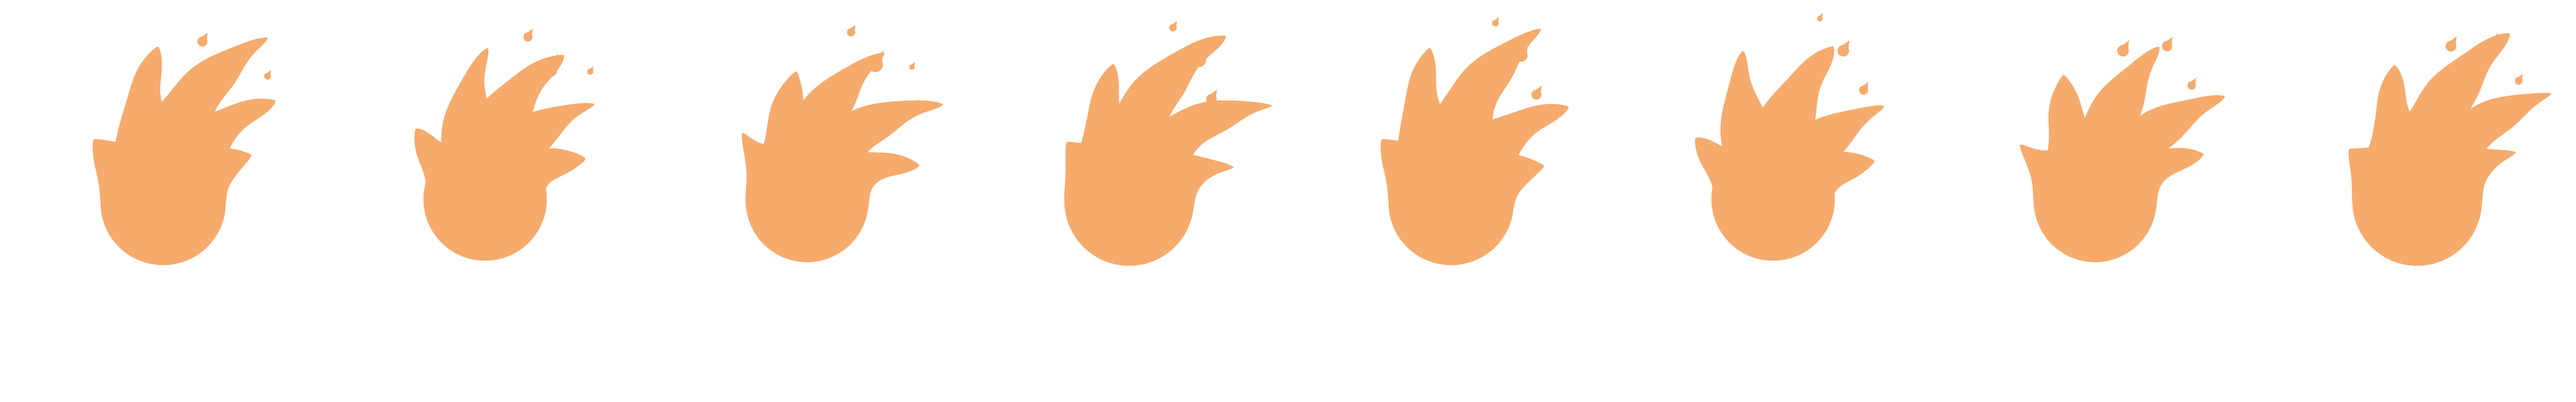
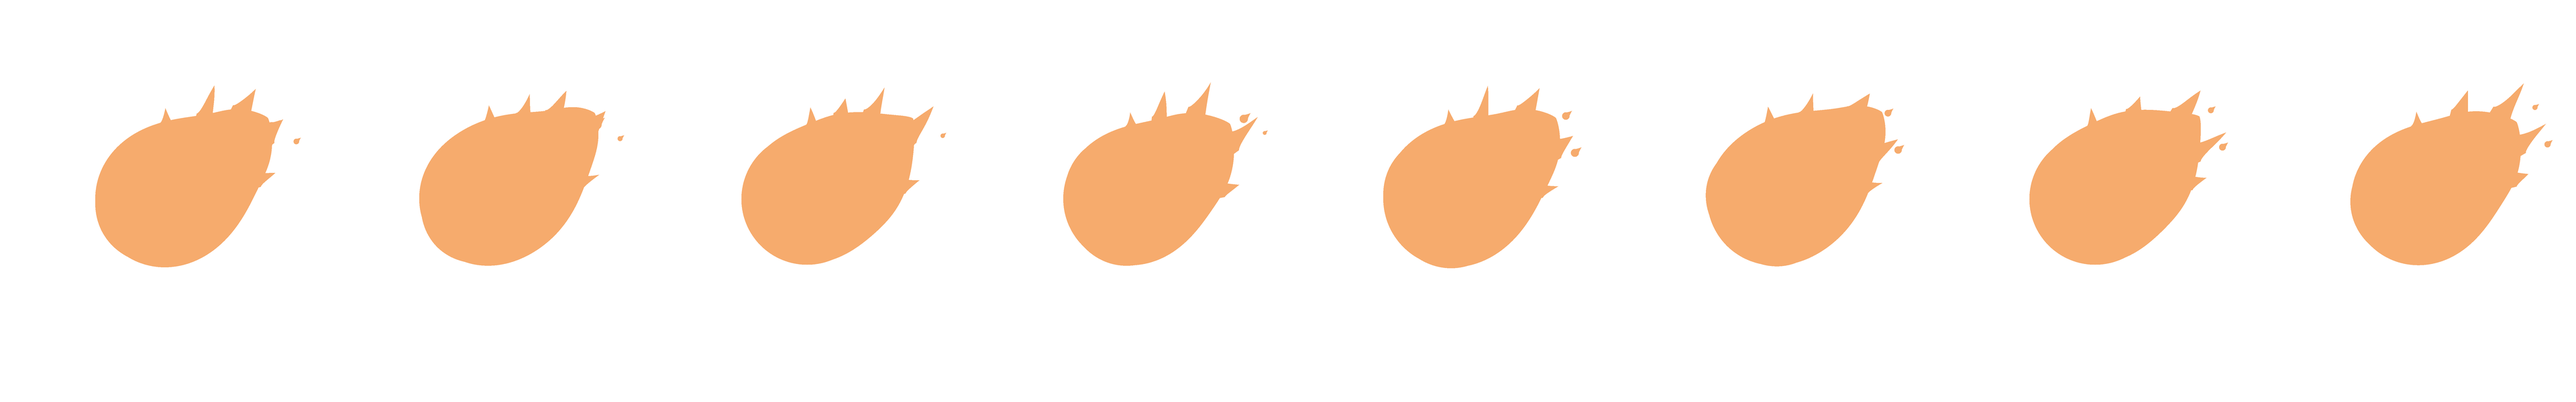
シンプル：コンボの星をひかえめに・ゴーゴーの炎を判定枠をくるむ火の玉にする
- 星：40→32px、ふちを細く・うすく、全体を少し透かした（たけらい「ちょっと主張激しい」）
  ふち付きの見分け方をゆるくした（透明度25%以上・明るさ55%未満の点があればふち付き）
- 炎：たけらいの絵に合わせて作り直した。判定枠をくるむ玉（画面で半径約90px）＋右上（−32°）へ太く伸びるしずく形、
  上のふちに細い炎が5本ゆらめく、火の粉は2つだけ。前はゲージまで届く大きい炎だった

Claude-Session: https://claude.ai/code/session_01DAU9tpBiF8CGAJXqk8DqYG

diff --git a/tools/skin-gen/gogo_fire.py b/tools/skin-gen/gogo_fire.py
@@ -10,6 +10,7 @@ ORANGE = (240, 120, 20)
 
 W, H, N = 480, 600, 8
 CX, CY, R = 243, 297, 92
+R2 = 98    # 11/5 の作り直しの玉の半径
 
 
 def tongue_mask(X, Y, ox, oy, angle, length, width, t, phase, curl):
@@ -42,6 +43,8 @@ def blob_mask(X, Y, x, y, r, angle):
 
 
 def frame(f):
+    """11/5 たけらいの絵(判定枠をくるむ玉＋右上へ1本の短い舌。しずく形・彗星みたいな形)に合わせて作り直した
+       画面では 0.9倍なので、玉の半径 R=105 → 画面で約95px。舌の先は中心から約200(画面で約180)・右上 −30°"""
     S = SS
     ys, xs = np.mgrid[0:H * S, 0:W * S]
     X = xs / S
@@ -50,26 +53,30 @@ def frame(f):
     dx, dy = X - CX, Y - CY
     rho = np.hypot(dx, dy)
     theta = np.arctan2(dy, dx)  # 画面は下が +y なので、上は -90°
-    # 外に行くほど右へねじる(炎の先が右へ曲がる)
-    k = 0.20 + 0.05 * math.sin(t)
-    th = theta - k * np.clip(rho - R, 0, None) / R
-    # 玉のふちから出る炎(角度・高さ・幅・揺れのずれ)。高さは時間で伸び縮み
-    radius = R * (1 + 0.04 * np.sin(theta))
-    for ang, height, sigma, ph in ((-145, 45, 0.20, 0.0), (-112, 120, 0.22, 1.1), (-84, 170, 0.24, 2.3),
-                                    (-56, 140, 0.21, 3.6), (-30, 70, 0.19, 4.8)):
+    # 外に行くほど少し右へねじる(舌の先が少し上へ反る)
+    k = 0.10 + 0.03 * math.sin(t)
+    th = theta + k * np.clip(rho - R2, 0, None) / R2
+    radius = R2 * (1 + 0.025 * np.sin(theta * 3 + t))
+    # しずく形の土台：右上(−32°)へ太く伸びる
+    c0 = math.radians(-32) + 0.04 * math.sin(t)
+    d0 = np.angle(np.exp(1j * (th - c0)))
+    radius = np.maximum(radius, R2 + 100 * (1 + 0.08 * math.sin(t * 2)) * np.exp(-np.abs(d0 / 0.62) ** 1.25))
+    # 上のふちにゆらめく細い炎(角度・高さ・幅・揺れのずれ)。炎っぽく見えるように、先をとがらせる
+    for ang, height, sigma, ph in ((-88, 26, 0.09, 0.5), (-64, 40, 0.10, 1.7), (-44, 48, 0.10, 2.9), (-24, 44, 0.09, 4.1), (-6, 26, 0.08, 5.3)):
         c = math.radians(ang) + 0.06 * math.sin(t + ph)
-        h = height * (1 + 0.16 * math.sin(t * 2 + ph))
-        d = np.angle(np.exp(1j * (th - c)))  # 角度の差(-π〜π)
-        radius = np.maximum(radius, R + h * np.exp(-np.abs(d / sigma) ** 1.35))
-    # ふちを少し波打たせる
-    radius = radius + 5 * np.sin(rho * 0.07 - t * 2) * (rho > R)
+        h = height * (0.75 + 0.35 * (0.5 + 0.5 * math.sin(t * 2 + ph)))
+        d = np.angle(np.exp(1j * (th - c)))
+        base = R2 + 100 * np.exp(-np.abs((c - c0) / 0.62) ** 1.25)
+        lick = np.clip(1 - np.abs(d / sigma), 0, 1) ** 1.6
+        radius = np.maximum(radius, np.where(lick > 0, base * 0.97 + h * lick, 0))
+    radius = radius + 3 * np.sin(rho * 0.08 - t * 2) * (rho > R2)
     m = rho <= radius
-    # 火の粉：右上へ上がって、小さくなる(8コマで入れ替わる)
-    for j, (sx, sy, r0, ph) in enumerate(((330, 110, 13, 0.0), (285, 80, 9, 0.33), (370, 150, 8, 0.66))):
+    # 火の粉：舌の先から右上へ2つだけ(小さく)
+    for j, (sx, sy, r0, ph) in enumerate(((405, 190, 8, 0.0), (430, 228, 6, 0.5))):
         u = (f / N + ph) % 1.0
-        x = sx + 35 * u + 6 * math.sin(t + j)
-        y = sy - 55 * u
-        m |= blob_mask(X, Y, x, y, r0 * (1 - 0.55 * u), math.radians(-60))
+        x = sx + 18 * u + 3 * math.sin(t + j)
+        y = sy - 34 * u
+        m |= blob_mask(X, Y, x, y, r0 * (1 - 0.6 * u), math.radians(-40))
     rgba = np.zeros((H * S, W * S, 4), dtype=np.uint8)
     rgba[m] = (*ORANGE, int(255 * 0.62))
     return Image.fromarray(rgba, 'RGBA').resize((W, H), Image.LANCZOS)

diff --git a/tools/skin-gen/gogo.py b/tools/skin-gen/gogo.py
@@ -10,16 +10,17 @@ def sparkle():
     シンプルの数字は明るい銀なので、加算で白を足しても見えなかった(六段の動画)。
     ふちがあるので、プログラムはふつうの重ね方で描く(暗いところがある星はふつう・無い星は加算、と PlayerEffects が決める)
     本家の星は銀の数字でも金の数字でも白のまま(六段の動画の 99→100→103 コンボ)"""
-    S = 40
+    # 11/5：「ちょっと主張激しい」→ 40→32px・ふちを細く、うすい灰色に・全体を少し透かす
+    S = 32
     c = Canvas(S, S)
     m = S / 2
     pts = []
     for i in range(8):
         a = i * math.pi / 4 - math.pi / 2
-        r = 18 if i % 2 == 0 else 4.2
+        r = 14 if i % 2 == 0 else 3.0
         pts.append((m + math.cos(a) * r, m + math.sin(a) * r))
-    c.poly(pts, fill=(255, 255, 255, 255), outline=(96, 98, 112, 230), width=2)
-    c.circle(m, m, 3.2, fill=(255, 255, 255, 255))
+    c.poly(pts, fill=(255, 255, 255, 225), outline=(100, 102, 116, 140), width=1.2)
+    c.circle(m, m, 2.4, fill=(255, 255, 255, 235))
     c.save(E + 'MiniTaiko/Effect.png')
 
 def sparkle_old():

diff --git a/TaikoSim/Scenes/PlayerEffects.cs b/TaikoSim/Scenes/PlayerEffects.cs
@@ -735,9 +735,10 @@ namespace TaikoSim.Scenes
             for (int y = 0; y < image.Height; y++)
                 for (int x = 0; x < image.Width; x++)
                     pixels[y * image.Width + x] = Raylib.GetImageColor(image, x, y);
-            // こい(透明度 50%以上)のに暗い(明るさ 50%未満)点があれば「ふち付き」とみなす
+            // ある程度こい(透明度 25%以上)のに暗い(明るさ 55%未満)点があれば「ふち付き」とみなす
+            //   （A-Style の星は白と黄色だけで暗い点が無い。シンプルの星はうすい灰色のふち）
             foreach (Color c in pixels)
-                if (c.A > 128 && (c.R + c.G + c.B) / 3 < 128) { sparkleHasOutline = true; break; }
+                if (c.A > 64 && (c.R + c.G + c.B) / 3 < 140) { sparkleHasOutline = true; break; }
             if (!sparkleHasOutline)
             {
                 for (int y = 0; y < image.Height; y++)
